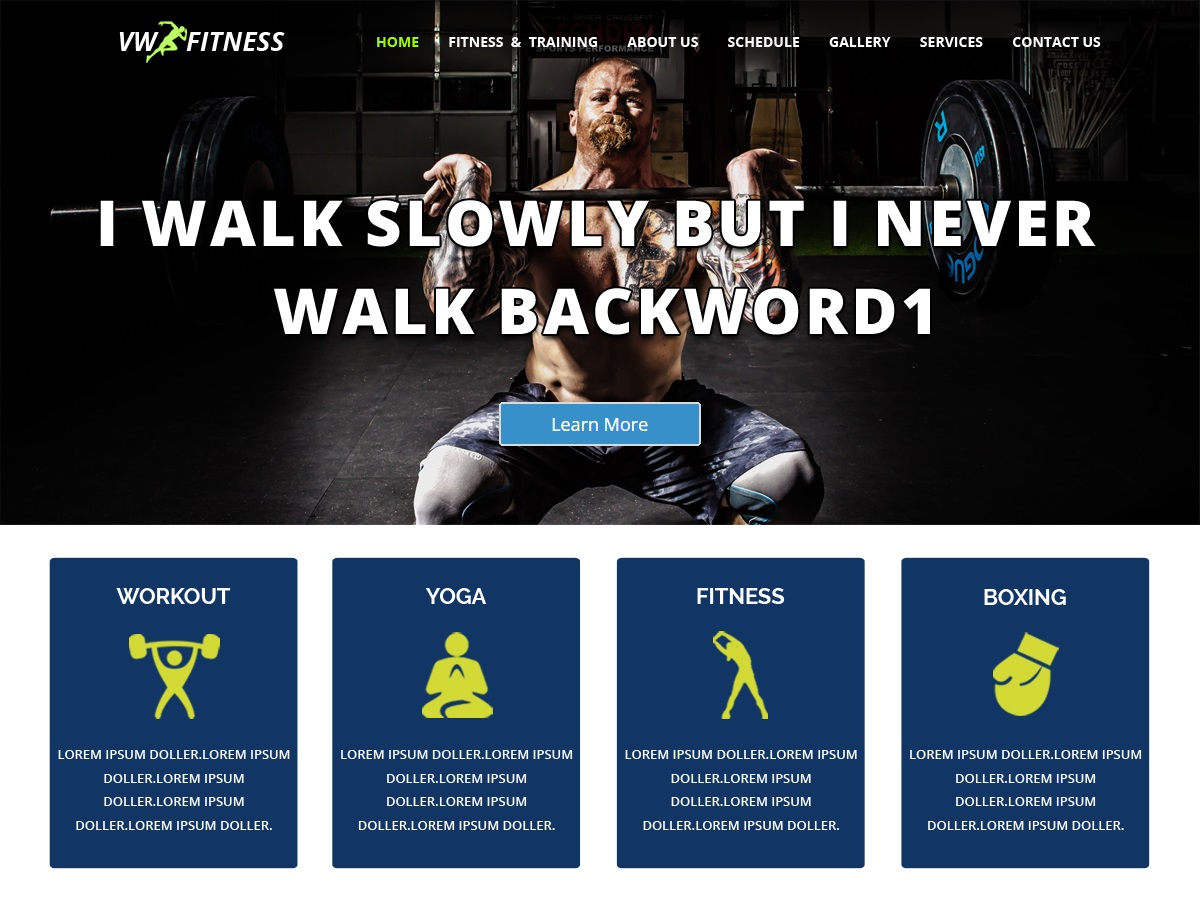
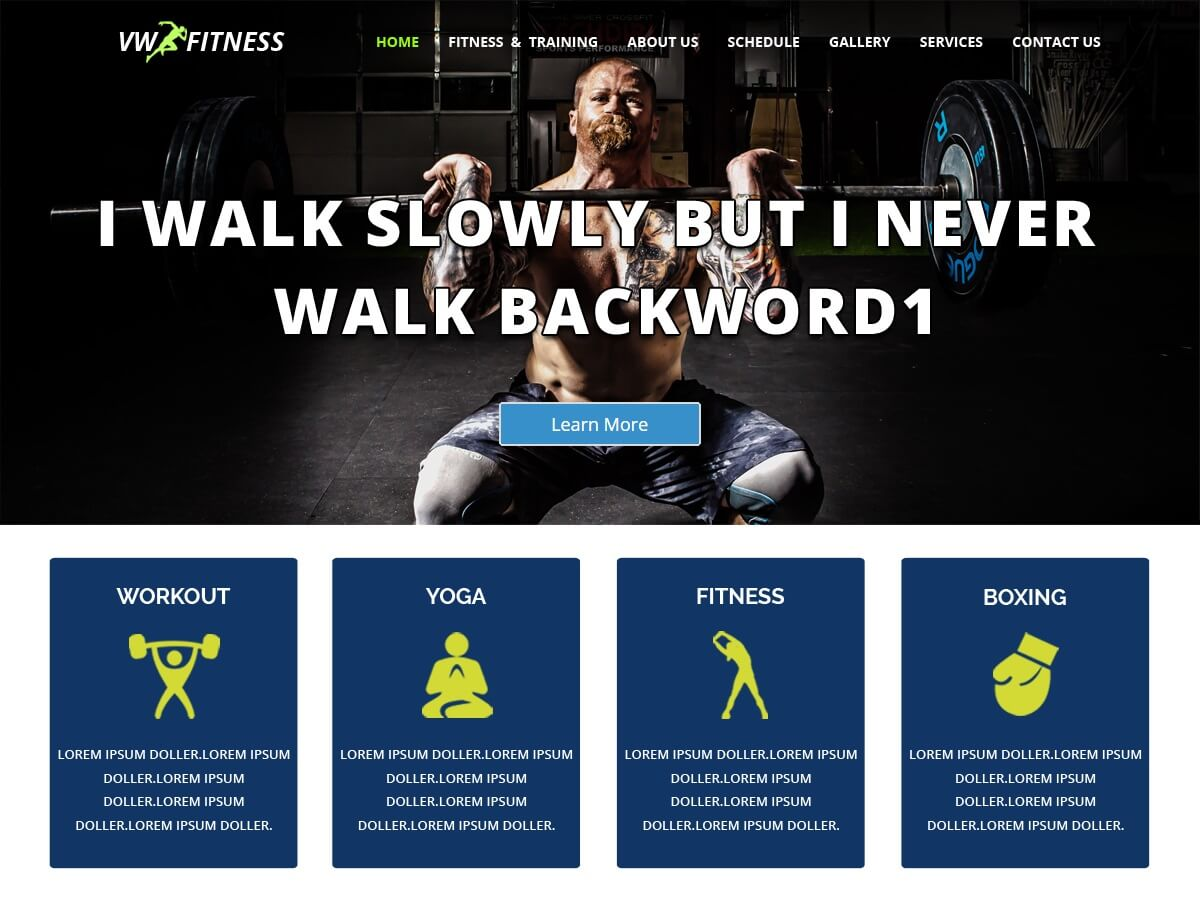
Img compressing

diff --git a/index.html b/index.html
@@ -9,8 +9,8 @@
     <meta content="" name="keywords" />
 
     <!-- Favicons -->
-    <link href="assets/img/icons/favicon.png" rel="icon" />
-    <link href="assets/img/icons/favicon.png" rel="apple-touch-icon" />
+    <link href="assets/img/icons/logo-favicon.png" rel="icon" />
+    <link href="assets/img/icons/logo-favicon.png" rel="apple-touch-icon" />
 
     <!-- Icons for home skills -->
 
@@ -199,11 +199,7 @@
         </div>
         <div class="row section-img">
           <div class="col-lg-4" data-aos="fade-right">
-            <img
-              src="assets/img/bg/responsive-design.png"
-              class="img-fluid"
-              alt=""
-            />
+            <img src="assets/img/bg/web-dev.jpg" class="img-fluid" alt="" />
           </div>
           <div class="col-lg-8 pt-4 pt-lg-0 content" data-aos="fade-left">
             <h3>Mobile &amp; Web Developer</h3>
